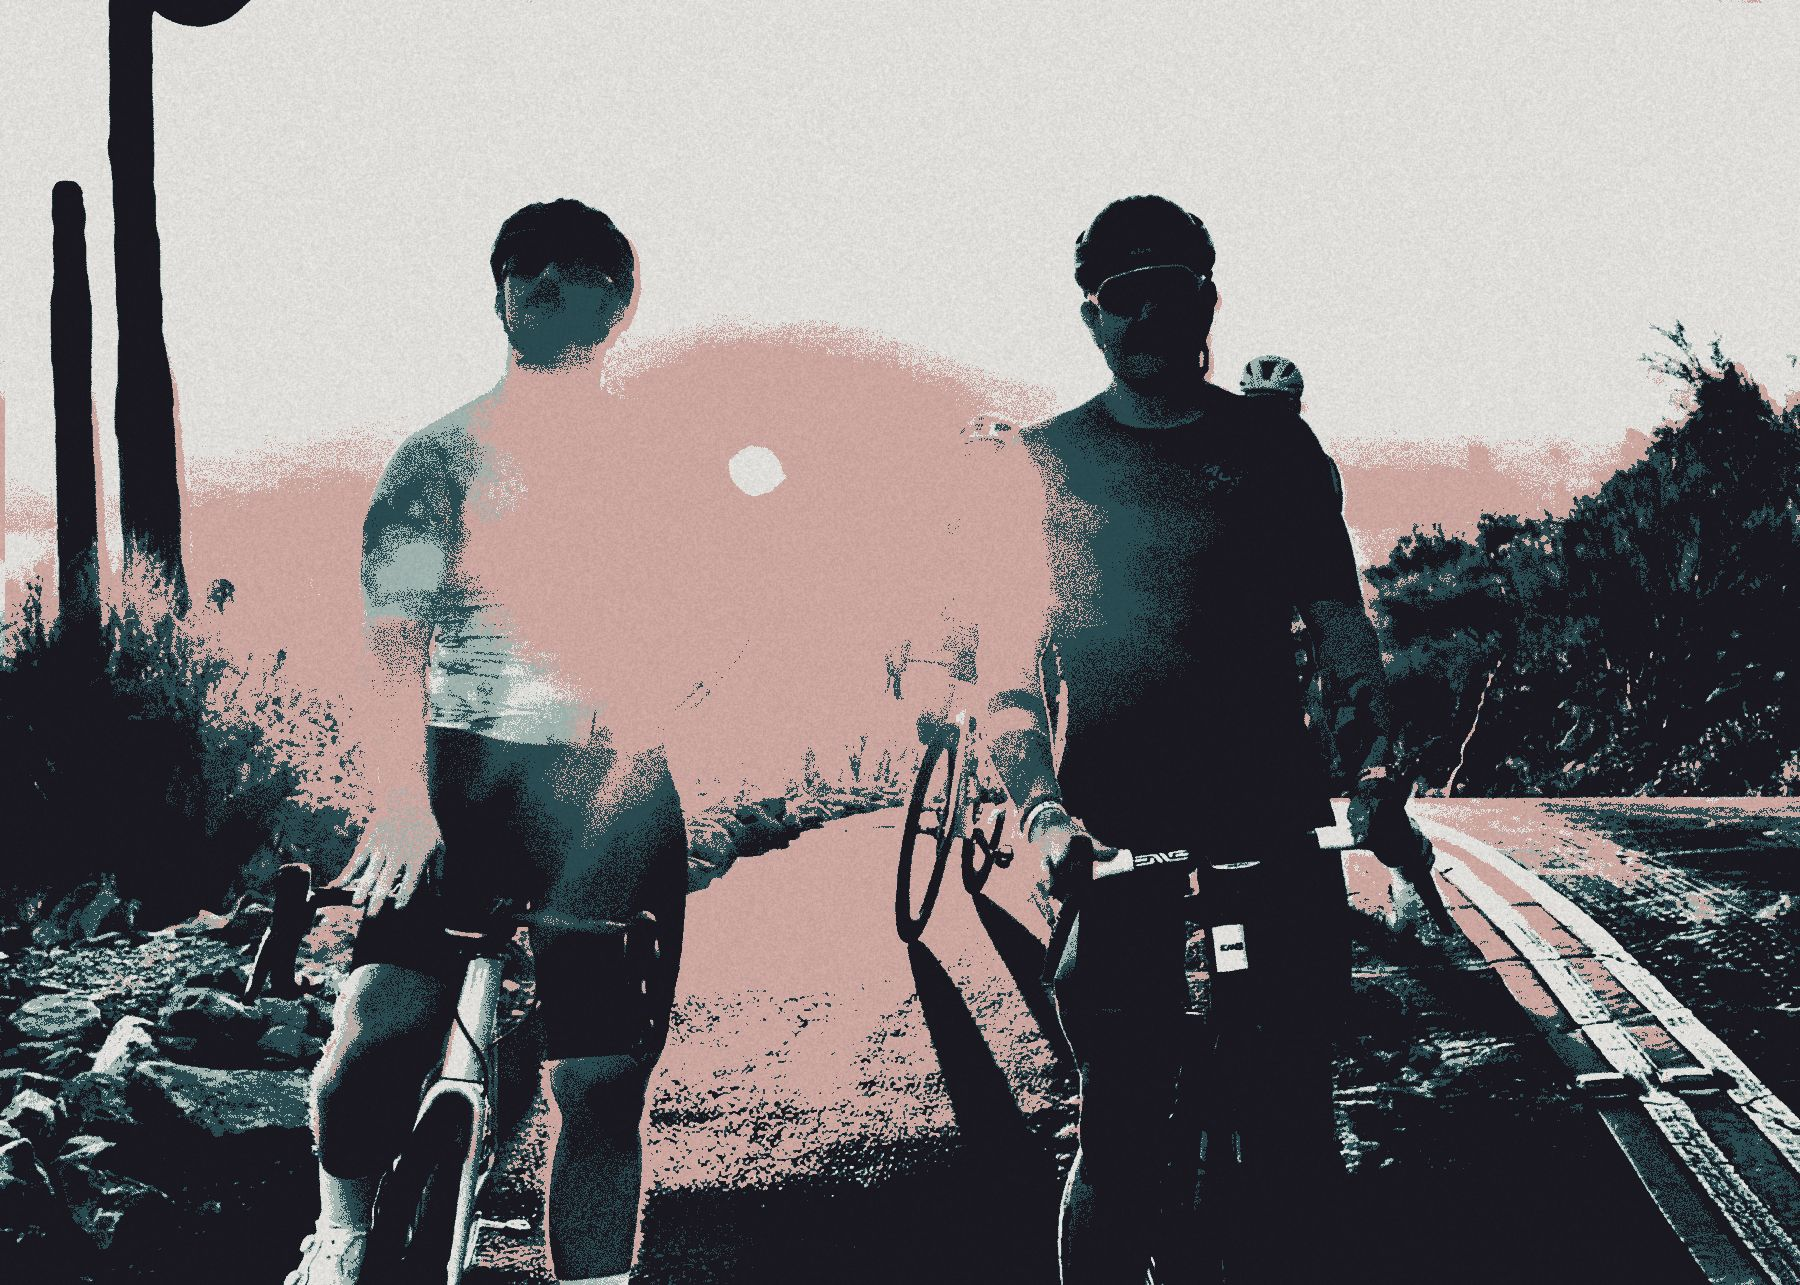
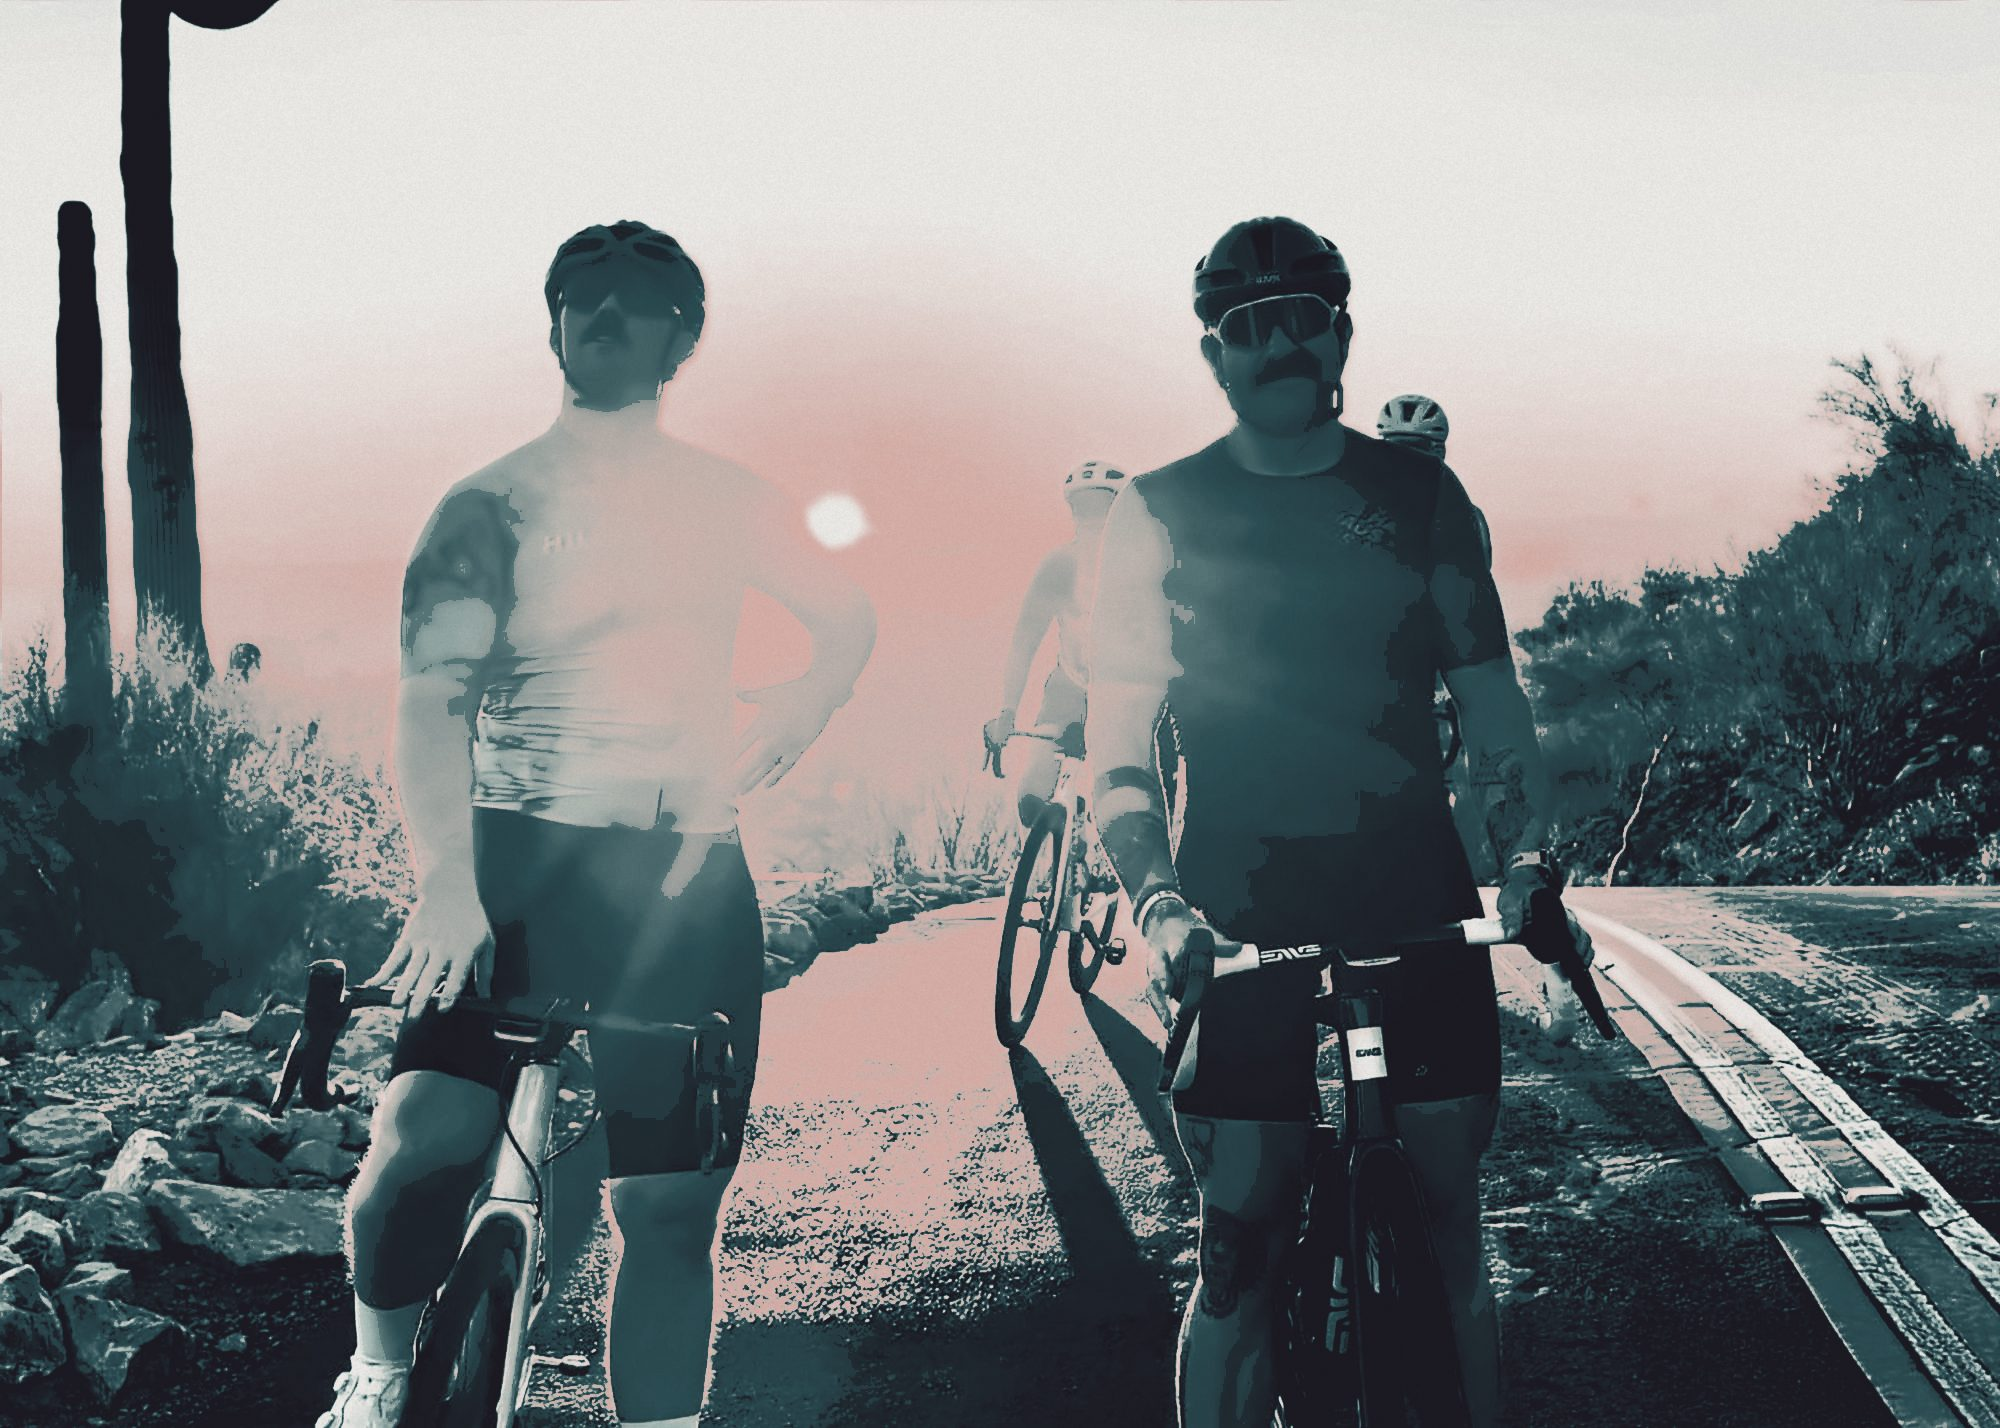
Pass 27b: the print, toned down — smooth four-ink tone, soft rose spot, fine grain, full-width cuts
Robert on his phone: 'tone this down to look more high resolution.' The first print posterised every
pixel into one of four inks with heavy noise, a 5px misregister and coarse grain, and the phone cut was
1000px wide on a 1170px screen. Now tools/print.py maps tone smoothly through the four inks (--crunch .25
keeps a little of the stepped feel), the rose spot is the soft warm channel pulled 2px off register, the
paper grain is fine and light, the files are cut at 2000 (desktop) and 1400 (phone) so nothing upscales,
and the CSS grain overlay on the sign drops from .16 to .07. Same palette, same one print, signed.

Claude-Session: https://claude.ai/code/session_013utkZFe5iNt36Rq9ZehCnH

diff --git a/cfc-site/home.css b/cfc-site/home.css
@@ -976,7 +976,7 @@ table.sr{display:block}   /* a table ignores width:1px otherwise and widens the 
 .sign-ph{position:absolute;inset:0;z-index:0}
 .sign-ph img{width:100%;height:100%;object-fit:cover;object-position:50% 18%;display:block}
 .sign-scrim{position:absolute;inset:0;z-index:1;background:linear-gradient(180deg,rgba(20,18,24,0) 0%,rgba(20,18,24,.35) 50%,rgba(20,18,24,.8) 100%),linear-gradient(90deg,rgba(20,18,24,.55) 0%,rgba(20,18,24,.25) 45%,rgba(20,18,24,0) 70%)}
-.sign--print .sign-grain{z-index:2;opacity:.16;mix-blend-mode:overlay}
+.sign--print .sign-grain{z-index:2;opacity:.07;mix-blend-mode:overlay}
 .sign--print .sign-in{z-index:3;align-items:end}
 .sign--print .sign-left{--w:clamp(250px,30vw,420px)}
 .sign--print .sign-kicker{color:var(--paper);font-size:16px;text-shadow:0 1px 10px rgba(20,18,24,.7)}

diff --git a/scripts/build-home.js b/scripts/build-home.js
@@ -142,7 +142,7 @@ ${CHROME.HEADER.replace('<p class="tally-line">', '<p class="tally-line tally-li
 <section class="sign sign--print" id="top" aria-labelledby="sign-h">
   <picture class="sign-ph">
     <source media="(max-width:759px)" srcset="/img/sign-print-phone.jpg">
-    <img src="/img/sign-print.jpg" width="1800" height="1285" alt="Robert and Caleb with their bikes on a desert road at sunset, printed in four inks." fetchpriority="high">
+    <img src="/img/sign-print.jpg" width="2000" height="1428" alt="Robert and Caleb with their bikes on a desert road at sunset, printed in four inks." fetchpriority="high">
   </picture>
   <div class="sign-scrim" aria-hidden="true"></div>
   <svg class="sign-grain" aria-hidden="true" focusable="false"><rect width="100%" height="100%" filter="url(#lpGrain)"/></svg>

diff --git a/cfc-site/index.html b/cfc-site/index.html
@@ -154,7 +154,7 @@
 <section class="sign sign--print" id="top" aria-labelledby="sign-h">
   <picture class="sign-ph">
     <source media="(max-width:759px)" srcset="/img/sign-print-phone.jpg">
-    <img src="/img/sign-print.jpg" width="1800" height="1285" alt="Robert and Caleb with their bikes on a desert road at sunset, printed in four inks." fetchpriority="high">
+    <img src="/img/sign-print.jpg" width="2000" height="1428" alt="Robert and Caleb with their bikes on a desert road at sunset, printed in four inks." fetchpriority="high">
   </picture>
   <div class="sign-scrim" aria-hidden="true"></div>
   <svg class="sign-grain" aria-hidden="true" focusable="false"><rect width="100%" height="100%" filter="url(#lpGrain)"/></svg>

diff --git a/tools/print.py b/tools/print.py
@@ -1,54 +1,78 @@
 #!/usr/bin/env python3
-"""The screenprint (Pass 27, Oct 6 2026).
+"""The screenprint (Pass 27, Oct 6 2026; softened Oct 5 evening, Pass 27b).
 
-Four inks from the After Hours palette — bruise, drained pool, patina, plaster — plus powder rose as
-the spot ink pulled a few pixels off register, paper grain over the top. Used ONCE on the site: the
-homepage sign's photograph. Never on a second photo (the brand panel's rule: one print, signed).
+Four inks from the After Hours palette — bruise, drained pool, patina, plaster — with powder rose as
+the spot ink pulled a couple of pixels off register, and a fine paper grain. Used ONCE on the site:
+the homepage sign's photograph. Never on a second photo (the brand panel's rule: one print, signed).
 
-    python3 tools/print.py cfc-site/img/hero-wide.jpg cfc-site/img/sign-print.jpg --width 1800
-    python3 tools/print.py <in> <out> --width 1200 --warmth .16 --ths .3 .5 .74
+Pass 27b: the first cut posterised every pixel into one of four inks with heavy noise, a 5px
+misregister and coarse grain, and read as low resolution on a phone. Now the tone runs smoothly
+through the four inks (a continuous gradient map, with `--crunch` keeping a little of the stepped
+print feel), the rose spot has a soft edge, the misregister is 2px, the grain is fine and light,
+and the files are cut at the source's full width so nothing is upscaled on a 3x phone.
+
+    python3 tools/print.py cfc-site/img/hero-wide.jpg cfc-site/img/sign-print.jpg --width 2000 --warmth .10
+    python3 tools/print.py cfc-site/img/hero-wide.jpg cfc-site/img/sign-print-phone.jpg --width 1400 --warmth .10
+    python3 tools/print.py <in> <out> --width 1200 --warmth .16 --crunch .25 --grain .05
 
 Deterministic (seeded) so a rebuild gives the same file.
 """
 import argparse
 import numpy as np
-from PIL import Image, ImageOps, ImageChops, ImageEnhance
+from PIL import Image, ImageOps, ImageChops, ImageEnhance, ImageFilter
 
 PAL = {"bruise": (28, 26, 34), "pool": (44, 79, 85), "patina": (169, 189, 184), "plaster": (239, 237, 234), "rose": (217, 177, 170)}
+STOPS = (0.0, 0.36, 0.70, 1.0)  # where each ink sits on the tone scale: bruise, pool, patina, plaster
 
 
-def print_image(path, width, ths=(0.30, 0.50, 0.74), shift=(5, 3), warmth=0.16, seed=7, quality=80):
+def gradient_map(tone, stops=STOPS):
+    """Continuous four-ink map: every tone is a blend of its two neighbouring inks."""
+    inks = np.array([PAL["bruise"], PAL["pool"], PAL["patina"], PAL["plaster"]], np.float32) / 255
+    out = np.empty(tone.shape + (3,), np.float32)
+    for c in range(3):
+        out[..., c] = np.interp(tone, stops, inks[:, c])
+    return out
+
+
+def print_image(path, width, crunch=0.25, shift=(2, 1), warmth=0.16, grain=0.05, seed=7, contrast=1.15):
     rng = np.random.default_rng(seed)
     im = ImageOps.exif_transpose(Image.open(path).convert("RGB"))
-    im = im.resize((width, int(im.height * width / im.width)), Image.LANCZOS)
-    g = ImageOps.autocontrast(ImageOps.grayscale(im), cutoff=2)
-    g = ImageEnhance.Contrast(g).enhance(1.3)
-    a = np.asarray(g).astype(np.float32) / 255
-    H, W = a.shape
-    noise = rng.random((H, W))
-    out = np.zeros((H, W, 3), np.float32) + np.array(PAL["plaster"]) / 255
-    for name, th in zip(("patina", "pool", "bruise"), ths[::-1]):
-        out[(a + (noise - 0.5) * 0.16) < th] = np.array(PAL[name]) / 255
+    if width < im.width:
+        im = im.resize((width, int(im.height * width / im.width)), Image.LANCZOS)
+    im = im.filter(ImageFilter.UnsharpMask(radius=1.2, percent=60, threshold=2))
+    g = ImageOps.autocontrast(ImageOps.grayscale(im), cutoff=1)
+    g = ImageEnhance.Contrast(g).enhance(contrast)
+    tone = np.asarray(g).astype(np.float32) / 255
+    H, W = tone.shape
+    # the print feel: a little of the tone is stepped to the nearest ink, most of it runs smooth
+    stepped = np.array(STOPS)[np.abs(tone[..., None] - np.array(STOPS)).argmin(-1)]
+    tone = tone * (1 - crunch) + stepped * crunch
+    out = gradient_map(tone)
+    # the rose spot: the warm channel of the photo, soft-edged, pulled a touch off register
     arr = np.asarray(im).astype(np.float32) / 255
-    warm = np.clip(((arr[..., 0] - arr[..., 2]) - warmth) * 4, 0, 1)
-    spot = (warm + (rng.random((H, W)) - 0.5) * 0.2) > 0.5
-    spot = np.roll(np.roll(spot, shift[1], 0), shift[0], 1)
-    light = np.all(np.abs(out - np.array(PAL["plaster"]) / 255) < 0.01, axis=2) | np.all(np.abs(out - np.array(PAL["patina"]) / 255) < 0.01, axis=2)
-    out[spot & light] = np.array(PAL["rose"]) / 255
-    img = Image.fromarray((out * 255).astype(np.uint8))
-    grain = Image.fromarray((rng.random((H, W)) * 255).astype(np.uint8), "L").filter(__import__("PIL.ImageFilter", fromlist=["GaussianBlur"]).GaussianBlur(0.6))
-    grain = ImageOps.autocontrast(grain).point(lambda v: 225 + v * 30 // 255)
-    return ImageChops.multiply(img, Image.merge("RGB", (grain, grain, grain)))
+    warm = np.clip(((arr[..., 0] - arr[..., 2]) - warmth) * 3.2, 0, 1)
+    warm = np.asarray(Image.fromarray((warm * 255).astype(np.uint8)).filter(ImageFilter.GaussianBlur(2.5))).astype(np.float32) / 255
+    warm = np.roll(np.roll(warm, shift[1], 0), shift[0], 1)
+    light = np.clip((tone - 0.5) * 3, 0, 1)  # the spot only takes on the lighter inks
+    spot = (warm * light)[..., None]
+    out = out * (1 - spot) + (np.array(PAL["rose"], np.float32) / 255) * spot
+    img = Image.fromarray((np.clip(out, 0, 1) * 255).astype(np.uint8))
+    # fine, light paper grain
+    gr = Image.fromarray((rng.random((H, W)) * 255).astype(np.uint8), "L").filter(ImageFilter.GaussianBlur(0.5))
+    lo = int(255 * (1 - grain))
+    gr = ImageOps.autocontrast(gr).point(lambda v: lo + v * (255 - lo) // 255)
+    return ImageChops.multiply(img, Image.merge("RGB", (gr, gr, gr)))
 
 
 if __name__ == "__main__":
     p = argparse.ArgumentParser()
     p.add_argument("src"); p.add_argument("out")
-    p.add_argument("--width", type=int, default=1800)
-    p.add_argument("--warmth", type=float, default=0.16)
-    p.add_argument("--ths", type=float, nargs=3, default=(0.30, 0.50, 0.74))
-    p.add_argument("--quality", type=int, default=80)
+    p.add_argument("--width", type=int, default=2000)
+    p.add_argument("--warmth", type=float, default=0.10)
+    p.add_argument("--crunch", type=float, default=0.25)
+    p.add_argument("--grain", type=float, default=0.05)
+    p.add_argument("--quality", type=int, default=82)
     a = p.parse_args()
-    img = print_image(a.src, a.width, tuple(a.ths), warmth=a.warmth, quality=a.quality)
+    img = print_image(a.src, a.width, crunch=a.crunch, warmth=a.warmth, grain=a.grain)
     img.save(a.out, quality=a.quality, optimize=True, progressive=True)
     print("wrote", a.out, img.size)
